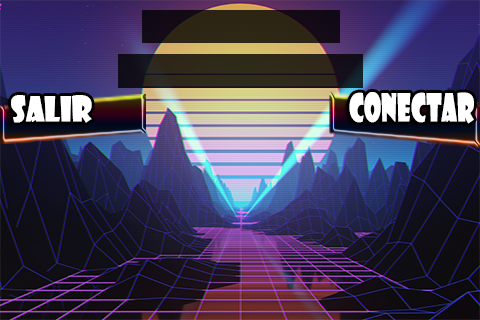
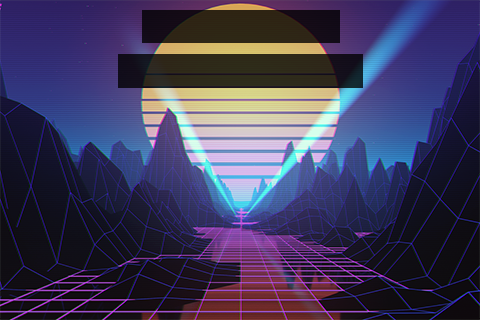
Wifi trabajando

Changed region(s): [[0.6875, 0.2812, 1.0, 0.4688], [0.0, 0.2812, 0.3125, 0.4688]]

diff --git a/main.py b/main.py
@@ -11,7 +11,7 @@ pygame.init()
 reloj = pygame.time.Clock()
 x=480
 y=320
-fps=300
+fps=600
 miFuentepeque = pygame.font.Font(None,33)
 
 #-------------------FUNCIONES--------------------
@@ -90,9 +90,9 @@ def main():
                 if cursor1.colliderect(botoninternet.rect):
                     os.system("chromium-browser %U")
                     #teclado os.system("") 
-                     
                 if cursor1.colliderect(botonajustes.rect):
                     ajustes()
+                    
         cursor1.update()
         botonjuegos.update(screen,cursor1)
         botonajustes.update(screen,cursor1)
@@ -378,37 +378,76 @@ def wififinal(ssid):
     
     #--------------IMAGENES------------------
     fondo = pygame.image.load("images/ajustes/wifipass.png")
+    botonsalir = pygame.image.load("images/ajustes/salir.png")
+    botonsalir2 = pygame.image.load("images/ajustes/salir2.png")
+    botonconectar = pygame.image.load("images/ajustes/conectar.png")
+    botonconectar2 = pygame.image.load("images/ajustes/conectar2.png")
 
     #------------.VARIABLES------------------------
     fuentewifi = pygame.font.Font(None,30)
     fuentessid = fuentewifi.render(ssid,0,(255,255,255))
+    cursorw = cursor()    
+    botonsalirfin = botonsalir2
+    botonconectarfin = botonconectar2
     tamletra = len(ssid)
     print tamletra
+    marcador = True
     
     def consumer(text):
-    	display.blit(fondo,(0,0))
-    	pass
+        display.blit(fondo,(0,0))
+        pass
+    
+    ciclo = True
 
-    while True:
-    	display.blit(fondo,(0,0))
+    while ciclo == True:
+        display.blit(fondo,(0,0))
         layout = VKeyboardLayout(VKeyboardLayout.AZERTY) #tipo de teclado
         keyboard = VKeyboard(display, consumer, layout) #teclado
+        #keyboard.enable()
         running = True
         while running:
-        	keyboard.enable()
-        	display.blit(fuentessid,(235-(tamletra*5),15))
-        	fuente1 = fuentewifi.render(str(keyboard.buffer),0,(255,255,255))
-        	display.blit(fuente1,(140,60))
-        	for event in pygame.event.get():
-        		if event.type == QUIT:
-        			running = False
-        			pygame.quit()
-        			sys.exit()
-        		keyboard.on_event(event)
-        	pygame.display.update()
-        
+            keyboard.enable()
+            display.blit(fuentessid,(235-(tamletra*5),15))
+            fuente1 = fuentewifi.render(str(keyboard.buffer),0,(255,255,255))
+            display.blit(fuente1,(140,60))
+            for event in pygame.event.get():
+                display.blit(botonsalirfin,(0,0))
+                display.blit(botonconectarfin,(0,0))
+                if event.type == pygame.KEYDOWN:
+                        
+              #---------------SELECCIONAR BOTONES-----------------
+                    if event.key == pygame.K_RIGHT:
+                        marcador = True
+                        botonconectarfin = botonconectar
+                        botonsalirfin = botonsalir2
+                        pygame.display.update()               
+                        
+                    if event.key == pygame.K_LEFT:
+                        marcador = False
+                        botonconectarfin = botonconectar2
+                        botonsalirfin = botonsalir
+                        pygame.display.update()
+                
+                    
+                    if event.key == pygame.K_RETURN and marcador == True:
+                        print("conectar")
+                        print(ssid, str(keyboard.buffer))
+                        wireless = Wireless()
+                        wireless.interface()
+                        wireless.connect(ssid= str(ssid) , password= str(keyboard.buffer))
+                        
+                    if event.key == pygame.K_RETURN and marcador == False:
+                        print("salir")
+                        running = False
+                        ciclo = False
+                        keyboard.disable()
+                       
+                keyboard.on_event(event)
+                pygame.display.update()
+                reloj.tick(fps)          
+                
 #///////////////////////////////////////////////////////////////////////////////       
 
-#-----------LLAMADO DE CLASE PRINCIPAL-----------
-main()
-#video()
+#-----------LLAMADO DE CLASE PRINCIPAL----------
+if __name__ == "__main__":
+    video()
